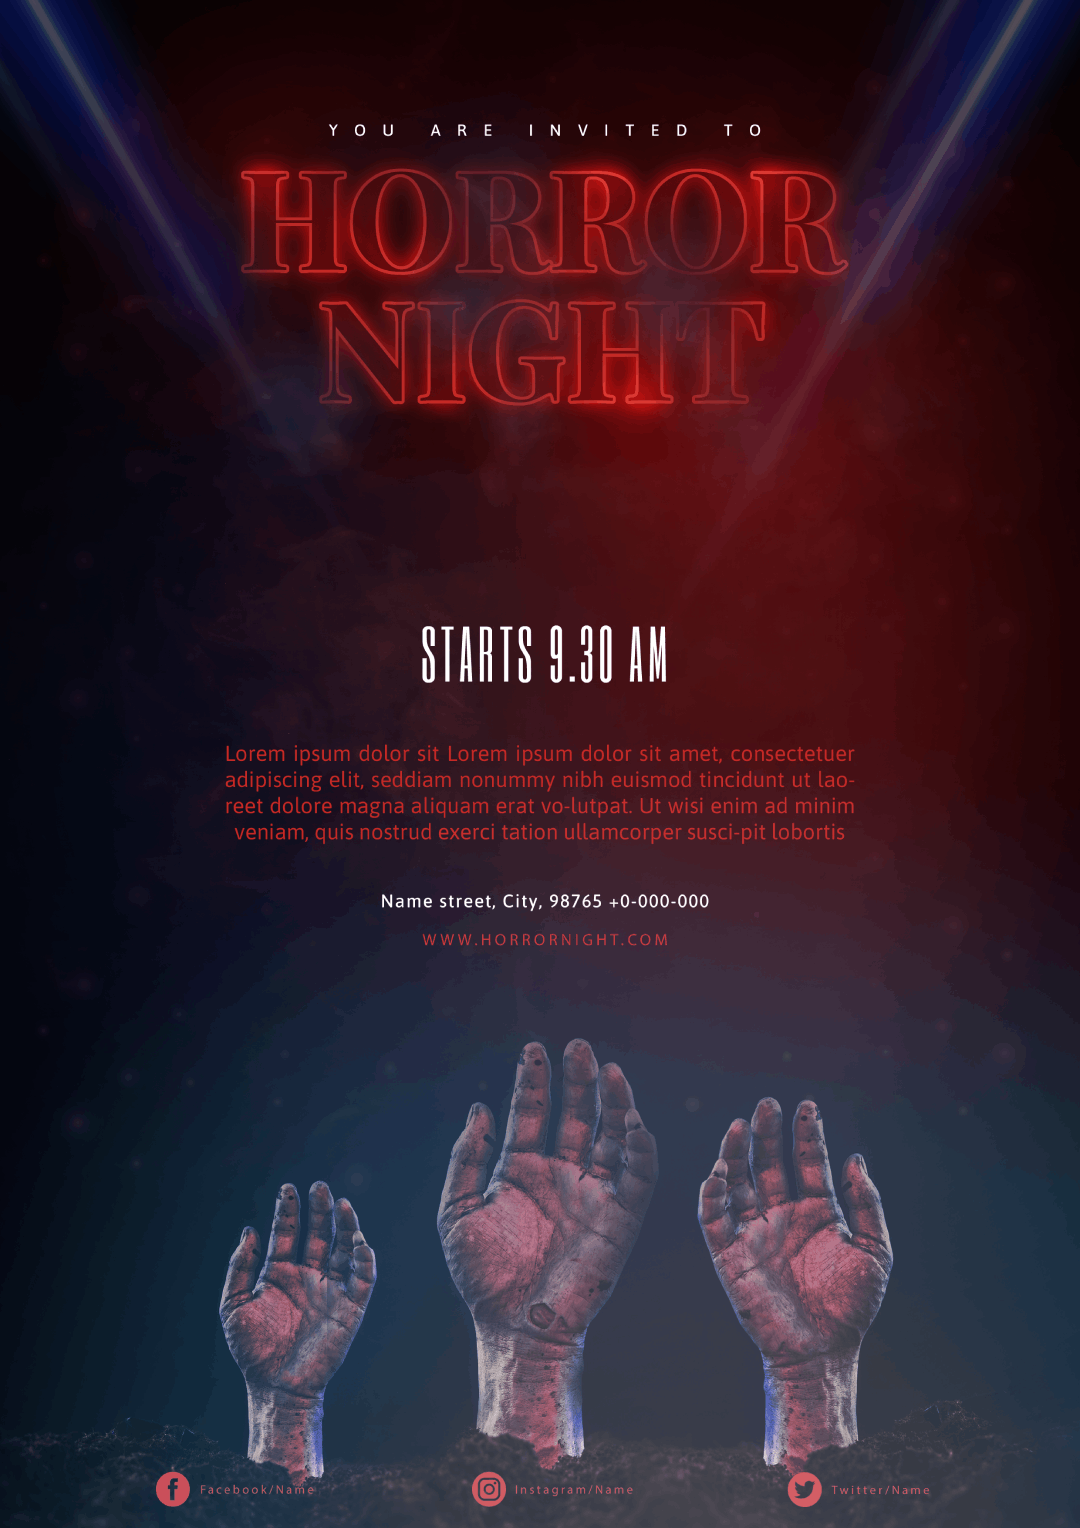
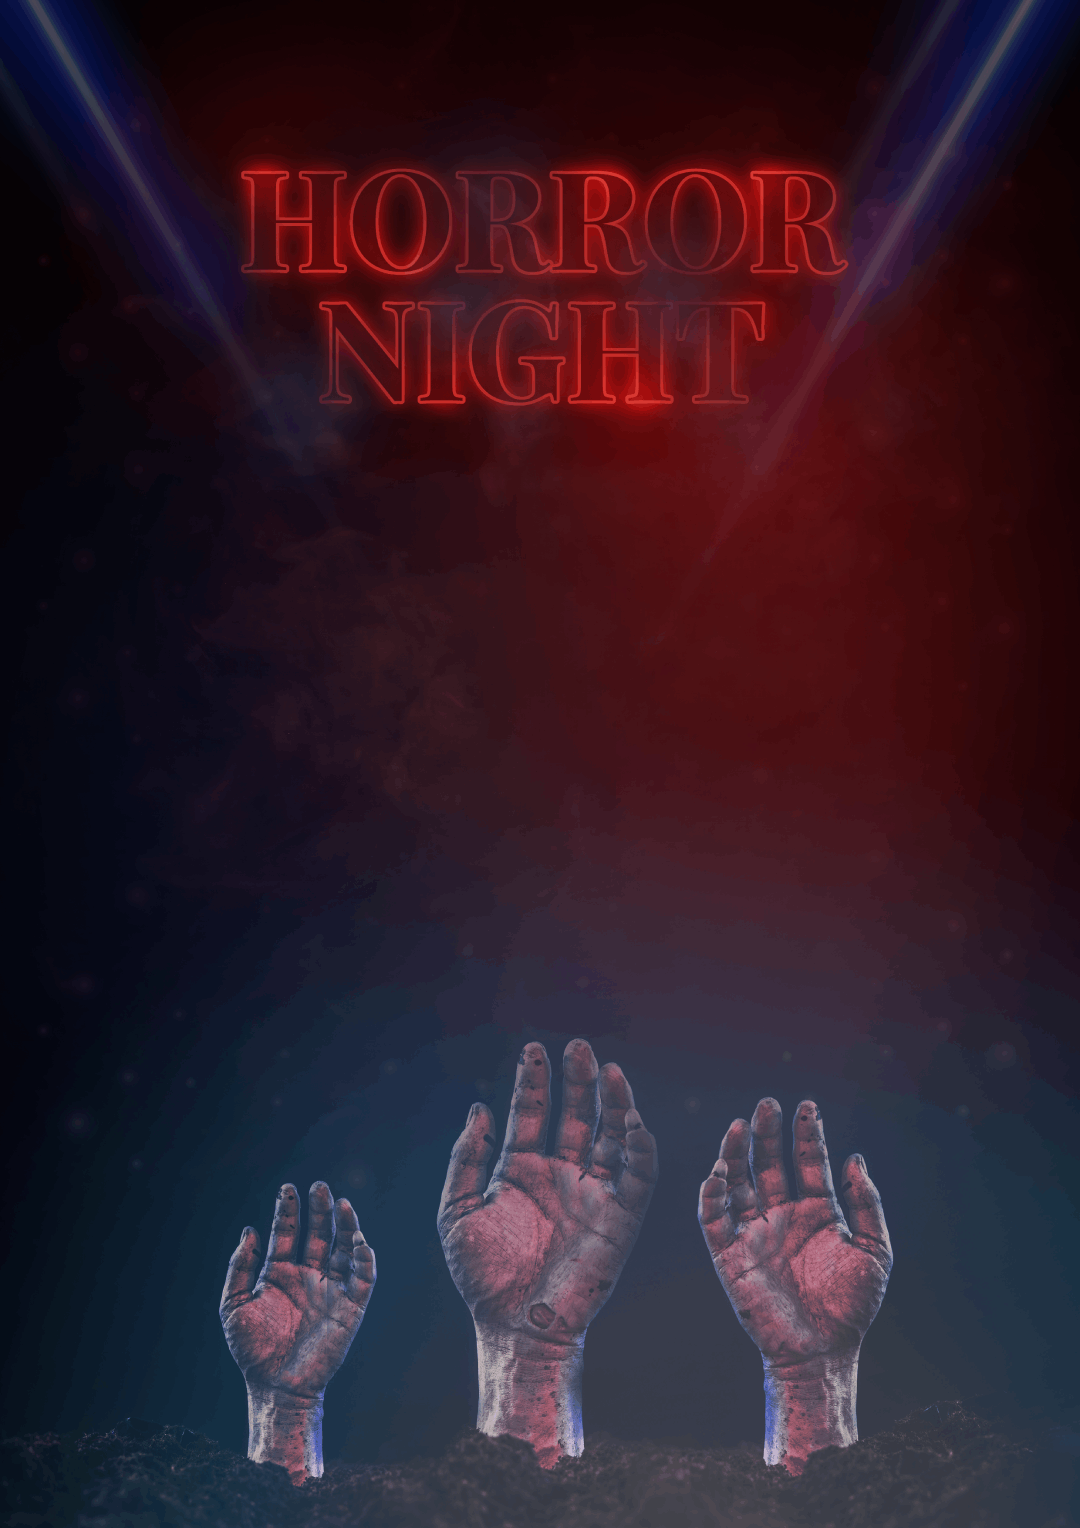
half site is done and responsive

diff --git a/styles/halloween.css b/styles/halloween.css
@@ -1,0 +1,91 @@
+@import url('https://fonts.googleapis.com/css2?family=Asap:wght@400;500&family=Roboto&family=Six+Caps&display=swap');
+
+* {
+    margin: 0;
+}
+
+body {
+    background-color: rgb(97, 82, 82);
+    background-image: url("/images/background.png");
+    background-repeat: no-repeat;
+    background-position-x: center;
+    background-size: 37vw 100vh;
+}
+
+main {
+    width: 25vw;
+    margin: auto;
+}
+
+.title {
+    color: #ffffff;
+    text-align: center;
+    text-transform: uppercase;
+    font-size: .62vw;
+    letter-spacing: .62vw;
+    font-weight: 500;
+    font-family: "Asap", sans-serif;
+    padding-top: 8.5vh;
+}
+
+.stats {
+    color: #ffffff;
+    text-align: center;
+    text-transform: uppercase;
+    font-size: 2.4vw;
+    letter-spacing: .25vw;
+    font-weight: 400;
+    font-family: "Six Caps", sans-serif;
+    padding-top: 28vh;
+}
+
+.paragrafo {
+    color: #c52723;
+    font-weight: 400;
+    font-family: "Asap", sans-serif;
+    text-align: center;
+    text-align: justify;
+    font-size: .9vw;
+    padding-top: 2.5vh;
+}
+
+.address {
+    color: #ffffff;
+    font-weight: 500;
+    font-family: "Asap";
+    text-align: center;
+    font-size: 1vw;
+    padding-top: 3vh;
+    letter-spacing: .05vw;
+}
+
+@media screen and (max-width: 600px) {
+    body {
+        background-size: 100vw 93vh;
+    }
+
+    main {
+        width: 75vw;
+    }
+
+    .title {
+        padding-top: 7vh;
+        font-size: 3vw;
+        letter-spacing: .9vw;
+    }
+
+    .stats {
+        font-size: 10vw;
+        padding-top: 22vh;
+    }
+
+    .paragrafo {
+        font-size: 2.9vw;
+        padding-top: 2.5vh;
+    }
+
+    .address {
+        font-size: 3.2vw;
+        padding-top: 2vh;
+    }
+}

diff --git a/halloween.html b/halloween.html
@@ -9,6 +9,26 @@
     <title>Halloween</title>
 </head>
 <body>
-    
+    <main>
+        <h3 class="title">you are invited to</h3>
+        <h2 class="stats">stats 9.30 am</h2>
+        <p class="paragrafo">Lorem ipsum dolor sit amet consectetur adipisicing elit. Provident eos aspernatur blanditiis dolorum, inventore beatae officiis iure voluptas exercitationem ex? Excepturi aliquid pariatur doloribus, veritatis ipsa, dolorem animi, at cum tempora corrupti voluptate. Vero explicabo venia!</p>
+        <h3 class="address">Name street, City, 98765 +0-000-000</h3>
+        <p>www.horrornight.com</p>
+        <section>
+            <div>
+                <a href="#">Facebook/Name</a>
+            </div>
+            <div>
+                <a href="#">Instagram/Name</a>
+            </div>
+            <div>
+                <a href="#">Twitter/Name</a>
+            </div>
+        </section>
+    </main>
+    <footer>
+
+    </footer>
 </body>
 </html>

diff --git a/styles/style.css b/styles/style.css
@@ -70,3 +70,9 @@ footer {
     padding-top: 30px;
     padding-bottom: 10px;
 }
+
+@media screen and (max-width: 600px) {
+    main, footer {
+        width: 70%;
+    }
+}
